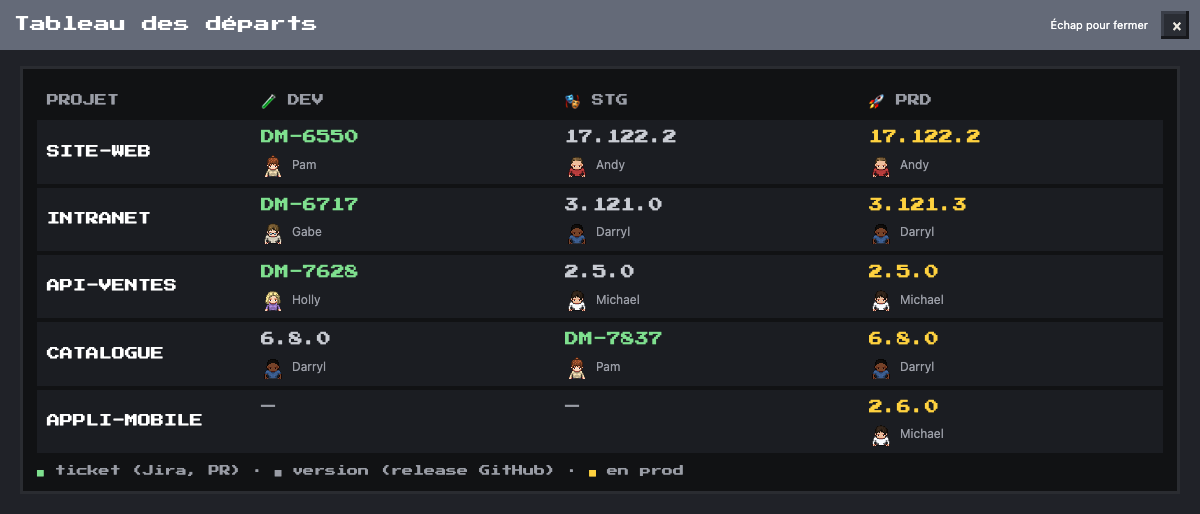
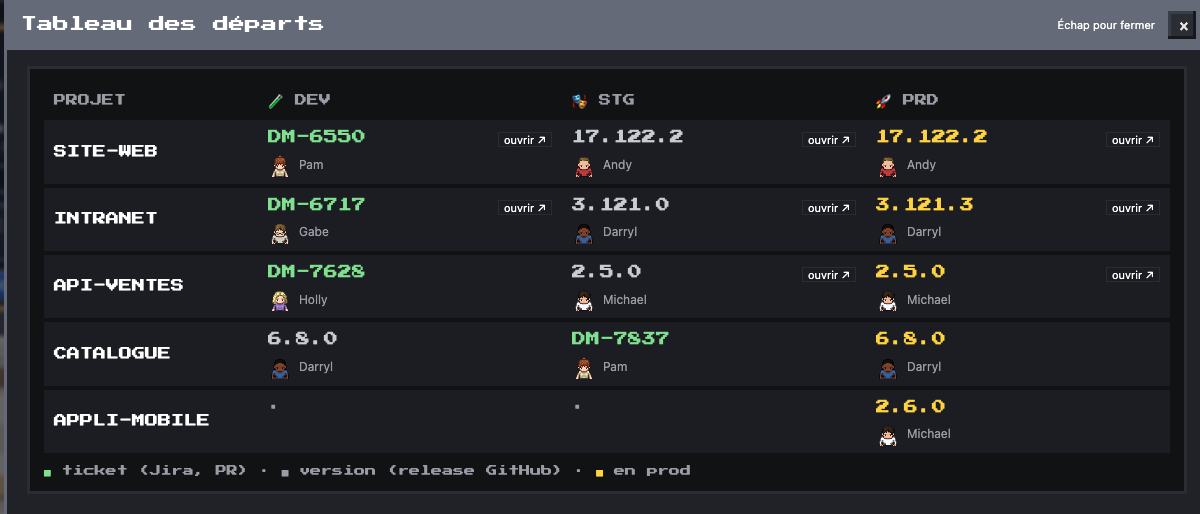
feat(envs): les adresses DEV, STG et PRD de chaque projet, au tableau des départs et sur le Kanban (#248)
## 🎯 Quoi et pourquoi
Ouvrir DEV, STG et PRD de chaque projet en un clic. Le Bureau savait
quelle branche tournait sur chaque env (cron live), mais pas l'adresse
des envs : GitHub ne la donne pas (`environment_url` vide partout). Les
adresses se donnent une fois dans la config locale. Maquette validée :
https://claude.ai/artifact/UBDsiW8jJZvZEq4NinzEFv (liens généraux au
tableau des départs, Kanban seulement quand c'est déployé).

## 🔧 Changements
- **Réglage** `urls` ({dev, stg, prd}, http(s) : des envs internes sont
en http) à côté du dépôt principal (`github.urls`) et de chaque dépôt
suivi (`github.deploys[].urls`), recopié par le cron live dans
`departs`. Réglage `envs` (par exemple `["stg", "prd"]`) pour un projet
qui n'a pas tous les envs : un vieux déploiement qui nomme encore l'env
ne le fait plus réapparaître.
- **Tableau des départs** : « ouvrir ↗ » dans chaque case dont l'env a
une adresse, même sans déploiement relu ; « pas de DEV » pour un env que
le projet n'a pas (et pas de ligne en mode TV).
- **Mur Kanban** : sous la carte, ce qui est déployé, toutes les PR du
ticket confondues. Une rangée par projet (son nom si l'équipe suit
plusieurs dépôts), 🧪 DEV ↗ / 🎭 STG ↗ en lien vers l'env, ⏳ pendant le
déploiement, 🌿 env ↗ (🌿 #n ↗ quand plusieurs PR du projet en ont un).
Rien de déployé : pas de rangée. Avant, seule la PR principale du ticket
montrait ses envs.
- **Fiche** (« Ses PR ouvertes », fiche d'une personne) : la marque « 🧪
[…]

diff --git a/page/src/62-departs.js b/page/src/62-departs.js
@@ -7,6 +7,14 @@ let DEPR=null, DEP_PIN=null, DEP_PAL=null, DEP_SKIN=null; // DEP_PIN : page du p
 const DEP_ROWS=3, DEP_PAGE_MS=5000, DEP_FLIP_MS=380;
 const depRows=()=>(LIVE&&Array.isArray(LIVE.departs)?LIVE.departs:[]).filter(r=>r&&r.repo);
 const depName=r=>String(r.label||String(r.repo).split('/').pop());
+// l'adresse d'un env (dev, stg, prd) d'un dépôt : réglage `urls` du dépôt, recopié par le cron live ; http(s) seulement
+// (des envs internes sont en http) ; null si inconnue
+const envHref=u=>typeof u==='string'&&/^https?:\/\//i.test(u)?u:null;
+const ENV_OF={staging:'stg'};
+function envUrl(repo,env){
+  const r=depRows().find(x=>String(x.repo).toLowerCase()===String(repo||'').toLowerCase());
+  return r&&r.urls?envHref(r.urls[ENV_OF[env]||env]):null;
+}
 const depKey=ref=>(String(ref||'').match(/[A-Z][A-Z0-9]+-\d+/)||[null])[0]; // en majuscules : pas « bluegreen-17 »
 // en prod à t (rejouable : une mise en prod d'après t n'est pas encore partie), la plus récente d'abord
 const depFlights=t=>depRows().filter(r=>r.prd&&r.prd.ref&&!(ms(r.prd.end)>t)).sort((a,b)=>(ms(b.prd.end)||0)-(ms(a.prd.end)||0));
@@ -34,16 +42,20 @@ const DEPARTS_BOARD={y:-1,draw:now=>{
   if(!L.length)txt('AUCUN DÉPART',P.when,x+4,y+22);
   for(let p=0;n>1&&p<n;p++)R(ctx,x+w/2-n*3+p*6,y+h-3,3,2,p===pg?P.band:P.row);
 }};
-// ---------- la fenêtre : un dépôt par ligne, DEV, STG et PRD ----------
+// ---------- la fenêtre : un dépôt par ligne, DEV, STG et PRD ; « ouvrir ↗ » mène à l'env quand son adresse est connue ----------
 const depA=(cls,url,t,tip='')=>`<a class="${cls}" ${hrefOf(url)} target="_blank" rel="noopener" title="${esc(tip)}">${esc(t)}</a>`;
 const depWho=o=>{const c=o.by?byChar(o.by):null;return {c,n:c?c.name:o.by||''};};
+// un env que le dépôt n'a pas (réglage envs) : « pas de DEV » dans la case, sans lien
+const depHas=(r,env)=>!Array.isArray(r.envs)||r.envs.includes(env);
 function depCell(r,env){
-  const o=r[env];if(!o||!o.ref)return '<td><span class="dep-none">·</span></td>';
+  if(!depHas(r,env))return '<td class="dep-off"><span class="dep-none">pas de '+env.toUpperCase()+'</span></td>';
+  const u=r.urls&&envHref(r.urls[env]), go=u?`<a class="dep-go" href="${esc(u)}" target="_blank" rel="noopener" title="${esc(u)}">ouvrir ↗</a>`:'';
+  const o=r[env];if(!o||!o.ref)return `<td><div class="dep-top"><span class="dep-none">·</span>${go}</div></td>`;
   const gh='https://github.com/'+r.repo, k=!o.tag&&depKey(o.ref), t=k&&ticketOf(k), w=depWho(o),
     pr=!o.tag&&TEAM&&[...TEAM.people.flatMap(p=>p.prs||[]),...(TEAM.other_prs||[])].find(x=>x.head===o.ref&&prRepo(x)===r.repo);
   const v=o.tag?depA(env==='prd'?'dep-prd':'',gh+'/releases/tag/'+encodeURIComponent(o.ref),o.ref)
     :k&&JIRA_BROWSE!=='/browse/'?depA('dep-br',JIRA_BROWSE+k,k,t?t.summary:o.ref):depA('dep-br',gh+'/tree/'+o.ref,o.ref);
-  return `<td><div class="dep-l">${v}${pr?depA('dep-pr',pr.url,'PR #'+pr.n,pr.title):''}</div><div class="dep-who">${w.c?`<span data-pt="${esc(w.c.key)}"></span>`:''}${esc(w.n)}</div></td>`;
+  return `<td><div class="dep-top"><div class="dep-l">${v}${pr?depA('dep-pr',pr.url,'PR #'+pr.n,pr.title):''}</div>${go}</div><div class="dep-who">${w.c?`<span data-pt="${esc(w.c.key)}"></span>`:''}${esc(w.n)}</div></td>`;
 }
 function departsFill(box){
   const L=depRows();
@@ -59,5 +71,5 @@ function tvDeparts(){
   const L=depRows(), line=(r,env)=>{const o=r[env]||{}, w=o.ref?depWho(o):{}, img=w.c?portraitUrl(w.c):'';
     return `<div class="tve-l"><i>${env.toUpperCase()}</i><em class="${!o.ref?'dep-none':env==='prd'?'dep-prd':o.tag?'':'dep-br'}">${esc(!o.ref?'·':o.tag?o.ref:depKey(o.ref)||o.ref)}</em>`+
       `<span>${img?`<img src="${img}" alt="">`:''}${esc(w.n||'')}</span></div>`;};
-  return L.length?'<h2>Les envs</h2>'+L.map(r=>`<div class="tve"><b>${esc(depName(r))}</b>${line(r,'dev')}${line(r,'stg')}${line(r,'prd')}</div>`).join(''):'';
+  return L.length?'<h2>Les envs</h2>'+L.map(r=>`<div class="tve"><b>${esc(depName(r))}</b>${['dev','stg','prd'].filter(e=>depHas(r,e)).map(e=>line(r,e)).join('')}</div>`).join(''):'';
 }

diff --git a/page/src/63-kanban.js b/page/src/63-kanban.js
@@ -102,19 +102,37 @@ function kanbanFill(box){
   const st=box.querySelector('.kbw-strip');if(st)st.onclick=kbClose;
 }
 // pastilles de la PR d'un ticket, sous sa carte : la PR prête plutôt qu'un brouillon, la plus récente ; n° et CI, brouillon
-// ou conflit, review, les envs où tourne sa branche (🧪 DEV, 🎭 STG, dataset live) et l'env de branche (« 🌿 env ↗ », ⏳ ou ❌ pendant son build)
+// ou conflit, review, l'env de branche en construction ou en échec (⏳ ou ❌) ; puis ce qui est déployé, toutes PR du
+// ticket confondues : une rangée par projet (son nom si l'équipe suit plusieurs dépôts), les envs où tourne une de ses
+// branches (🧪 DEV, 🎭 STG, dataset live ; un lien vers l'env si son adresse est connue, ⏳ pendant le déploiement) et
+// les envs de branche (« 🌿 env ↗ », « 🌿 #n ↗ » quand il y en a plusieurs) ; rien de déployé, pas de rangée
 const KB_REV={changes:['💬 à corriger','var(--warn)'],approved:['👍 approuvée','var(--ok)'],pending:['👀 à relire','var(--info)']};
 function kbPrChips(key){
-  const p=prsOf(key).sort((a,b)=>(!!a.draft-!!b.draft)||(b.n-a.n))[0];if(!p)return '';
+  const all=prsOf(key).sort((a,b)=>(!!a.draft-!!b.draft)||(b.n-a.n)), p=all[0];if(!p)return '';
   const c=(t,col,tt)=>`<i style="--k:${col}"${tt?` title="${esc(tt)}"`:''}>${t}</i>`, ci=PR_CI[p.ci];
   let h=c(esc('#'+p.n)+(ci?' '+ci[0]:''),ci?ci[1]:'var(--idle)',ci?ci[2]:'');
   if(p.draft)h+=c('✎ brouillon','var(--idle)');else if(KB_REV[p.review])h+=c(...KB_REV[p.review]);
   if(p.conflict)h+=c('⛔ conflit','var(--err)');
-  for(const e of prEnvs(p))h+=c(e.ico+' '+esc(e.env.toUpperCase())+(e.run?' ⏳':''),e.run?'var(--warn)':'var(--info)',(e.run?'Déploiement en cours sur ':'Sa branche est sur ')+e.env.toUpperCase());
-  const eb=p.head?ebState(p):{step:'none'}; // l'env de branche : en construction ou en échec, sinon son lien
+  const eb=p.head?ebState(p):{step:'none'}; // l'env de branche de la PR principale : en construction ou en échec
   if(eb.step==='asked'||eb.step==='run')h+=c('🌿 ⏳ env','var(--warn)','Env de branche en construction');
   else if(eb.step==='ko')h+=c('🌿 ❌ env','var(--err)','Build de l\'env de branche en échec');
-  else if(safeUrl(p.env_url))h+=`<a class="kbw-env" ${hrefOf(p.env_url)} target="_blank" rel="noopener" title="Env de branche : ${esc(p.env_url)}">🌿 env ↗</a>`;
+  const rows=new Map(), row=x=>{const r=String(prRepo(x));if(!rows.has(r))rows.set(r,{envs:[],br:[]});return rows.get(r);};
+  for(const x of all){
+    for(const e of prEnvs(x))row(x).envs.push({...e,n:x.n});
+    if(safeUrl(x.env_url)&&!(x===p&&eb.step!=='ok'&&eb.step!=='none'))row(x).br.push(x);
+  }
+  const multi=depRows().length>1;
+  for(const [repo,r] of rows){
+    if(!r.envs.length&&!r.br.length)continue;
+    r.envs.sort((a,b)=>a.env.localeCompare(b.env));
+    let g=multi?`<span class="kbw-pj">${esc(depName(depRows().find(x=>String(x.repo).toLowerCase()===repo.toLowerCase())||{repo}))}</span>`:'';
+    for(const e of r.envs){const t=e.ico+' '+esc(e.env.toUpperCase());
+      g+=e.run?c(t+' ⏳','var(--warn)','Déploiement en cours sur '+e.env.toUpperCase())
+        :e.url?`<a class="kbw-env kbw-go" href="${esc(e.url)}" target="_blank" rel="noopener" title="La PR #${esc(e.n)} y est : ${esc(e.url)}">${t} ↗</a>`
+        :c(t,'var(--info)','Sa branche est sur '+e.env.toUpperCase());}
+    for(const x of r.br)g+=`<a class="kbw-env" ${hrefOf(x.env_url)} target="_blank" rel="noopener" title="Env de branche de la PR #${esc(x.n)} : ${esc(x.env_url)}">🌿 ${r.br.length>1?'#'+esc(x.n):'env'} ↗</a>`;
+    h+=`<span class="kbw-envs">${g}</span>`;
+  }
   return `<span class="kbw-x">${h}</span>`;
 }
 // le volet : « ← » (fiche d'avant) ou rien, × ; puis la fiche du ticket ou de la PR (62-ticket.js), comme dans le panneau

diff --git a/tests/kanban-pr.test.js b/tests/kanban-pr.test.js
@@ -52,3 +52,42 @@ test('fiche du ticket : l\'adresse complète de l\'env de branche, sous sa PR ; 
   assert.match(m, /✗ CI/);
   assert.match(m, /🧪 DEV · depuis/);
 });
+
+// avec le tableau des départs (LIVE.departs) : adresses des envs et noms des projets
+function chipsHtml(prs, envs, departs) {
+  return J(`(() => { const t0 = TEAM, l0 = LIVE; TEAM = {people: [{name: 'Pam', prs: ${JSON.stringify(prs)}, tickets: []}], other_prs: []};
+    LIVE = {envs: ${JSON.stringify(envs)}, departs: ${JSON.stringify(departs)}};
+    try { return kbPrChips('DM-1'); } finally { TEAM = t0; LIVE = l0; } })()`);
+}
+const API = 'acme/api';
+const DEPS = [{repo: REPO, label: 'site', urls: {dev: 'https://dev.site.example', stg: 'https://stg.site.example'}},
+  {repo: API, label: 'api', urls: {stg: 'http://api.stg.example.internal/api/'}}];
+
+test('carte : une rangée par projet, seulement ce qui est déployé, un lien vers l\'env quand son adresse est connue', () => {
+  const h = chipsHtml([pr({n: 12}), pr({n: 7, repo: API, head: 'feat/DM-1-api'})],
+    {[REPO + '|dev']: run(), [API + '|stg']: run({ref: 'feat/DM-1-api'})}, DEPS);
+  const rows = [...h.matchAll(/<span class="kbw-envs">(.*?)<\/span>(?=<span class="kbw-envs">|<\/span>$)/g)].map(m => m[1].replace(/<[^>]+>/g, ' ').replace(/\s+/g, ' ').trim());
+  assert.deepEqual(rows, ['site 🧪 DEV ↗', 'api 🎭 STG ↗']);
+  assert.match(h, /href="https:\/\/dev\.site\.example"/);
+  assert.match(h, /href="http:\/\/api\.stg\.example\.internal\/api\/"/, 'un env interne en http');
+  assert.doesNotMatch(h, /stg\.site\.example/, 'STG du site : la branche n\'y est pas');
+});
+
+test('carte : rien de déployé, pas de rangée ; pendant le déploiement, ⏳ sans lien ; adresse inconnue, la pastille seule', () => {
+  assert.doesNotMatch(chipsHtml([pr()], {}, DEPS), /kbw-envs/);
+  const h = chipsHtml([pr()], {[REPO + '|dev']: run({status: 'in_progress', conclusion: null, end: null})}, DEPS);
+  assert.match(h, /🧪 DEV ⏳/);
+  assert.doesNotMatch(h, /href=/);
+  assert.doesNotMatch(chipsHtml([pr()], {[REPO + '|dev']: run()}, [{repo: REPO, urls: {dev: 'javascript:alert(1)'}}]), /href=/);
+});
+
+test('carte : deux envs de branche dans un projet, chacun avec le n° de sa PR', () => {
+  const h = chipsHtml([pr({n: 12, env_url: 'https://a.example'}), pr({n: 14, head: 'feat/DM-1-b', env_url: 'https://b.example'})], {}, DEPS);
+  assert.match(h, /🌿 #14 ↗.*🌿 #12 ↗/);
+});
+
+test('fiche : la marque de l\'env devient un lien vers lui', () => {
+  const m = J(`(() => { const l0 = LIVE; LIVE = {envs: {'${REPO}|dev': ${JSON.stringify(run())}}, departs: ${JSON.stringify(DEPS)}};
+    try { return prMarks(${JSON.stringify(pr())}).join(' '); } finally { LIVE = l0; } })()`);
+  assert.match(m, /<a class="prm" href="https:\/\/dev\.site\.example"[^>]*>🧪 DEV ↗ · depuis/);
+});

diff --git a/page/src/styles.css b/page/src/styles.css
@@ -239,6 +239,9 @@ button.back kbd{font:10px ui-monospace,Menlo,monospace;border:1px solid var(--li
 .kbw-x i{font-style:normal;font-size:10px;line-height:15px;padding:0 5px;background:color-mix(in srgb,var(--k) 20%,transparent);box-shadow:inset 2px 0 0 var(--k);color:var(--ink);white-space:nowrap}
 .kbw-env{font-size:10px;line-height:15px;padding:0 5px;background:color-mix(in srgb,var(--ok) 22%,transparent);box-shadow:inset 2px 0 0 var(--ok);color:var(--ink);text-decoration:none;white-space:nowrap}
 .kbw-env:hover{text-decoration:underline}
+.kbw-env.kbw-go{background:color-mix(in srgb,var(--info) 20%,transparent);box-shadow:inset 2px 0 0 var(--info)}
+.kbw-envs{flex-basis:100%;display:flex;flex-wrap:wrap;align-items:center;gap:3px} /* une rangée par projet : ce qui est déployé */
+.kbw-pj{font-size:10px;color:var(--muted);margin-right:2px}
 .kb-vol .kbw-x{display:none}
 .tk-env{display:flex;flex-wrap:wrap;align-items:baseline;gap:2px 6px;margin-top:4px;font-size:11px}.tk-env a{color:var(--accent);word-break:break-all}.tk-env small{color:var(--muted)}
 .kbw-c b{color:var(--accent);font-size:11px}.kbw-c em{font-style:normal;float:right;background:var(--chip);border-radius:999px;padding:0 6px;font-size:10px;color:var(--muted)}
@@ -869,6 +872,10 @@ body.tv.tvscene #tvscene{display:flex;flex-direction:column}
 .dep a{color:inherit;text-decoration:none}.dep a:hover{text-decoration:underline 2px;text-underline-offset:4px}
 .dep .dep-prd,.tve-l .dep-prd{color:var(--dep-prd)}.dep .dep-br{color:var(--dep-branch)}.dep-pr,.dep-who,.dep-key,.dep-none{color:var(--dep-when)}
 .dep-pr{font-size:10px;margin-left:6px}
+.dep td.dep-off{background:transparent;vertical-align:middle}
+.dep-top{display:flex;align-items:baseline;gap:6px}.dep-top .dep-l{flex:1;min-width:0}
+.dep a.dep-go{flex:none;font:11px system-ui,sans-serif;color:var(--dep-name);border:1px solid var(--dep-frame);border-radius:4px;padding:0 5px;white-space:nowrap}
+.dep a.dep-go:hover{border-color:var(--dep-branch);text-decoration:none}
 .dep-who{display:flex;align-items:center;gap:7px;margin-top:5px;font:12px system-ui,sans-serif;white-space:nowrap}
 .dep-who canvas{width:24px;height:24px;image-rendering:pixelated}.dep-key{margin:6px 0 0;font-size:11px}
 #tvwho .tve{background:var(--tv-card);border-radius:10px;padding:8px 12px;color:var(--tv-ink)}

diff --git a/tests/departs.test.js b/tests/departs.test.js
@@ -58,3 +58,22 @@ test('mode TV : « Les envs », trois lignes par dépôt, la clé du ticket plut
 test('clé de ticket : en majuscules seulement (« ci/tpl-bluegreen-17.5.0 » n\'en a pas)', () => {
   assert.deepEqual(J(`['feat/DM-7399-audio', 'ci/tpl-bluegreen-17.5.0', 'dev_DM-7712-2'].map(depKey)`), ['DM-7399', null, 'DM-7712']);
 });
+
+test('fenêtre : « ouvrir ↗ » dans chaque case dont l\'env a une adresse, même sans déploiement relu ; http(s) seulement', () => {
+  const html = J(`(() => { const l0 = LIVE; LIVE = {runs: [], departs: ${JSON.stringify([
+    {...DEPARTS[0], urls: {dev: 'https://dev.example', prd: 'https://www.example'}},
+    {...DEPARTS[1], urls: {dev: 'http://intra.dev.example.internal/', stg: 'javascript:alert(1)'}}])}};
+    const b = document.createElement('div'); try { departsFill(b); return b.innerHTML; } finally { LIVE = l0; } })()`);
+  const go = [...html.matchAll(/class="dep-go" href="([^"]+)"/g)].map(m => m[1]);
+  assert.deepEqual(go, ['https://dev.example', 'https://www.example', 'http://intra.dev.example.internal/']);
+});
+
+test('fenêtre et mode TV : un env que le projet n\'a pas (réglage envs) : « pas de DEV », sans lien ni ligne', () => {
+  const d = JSON.stringify([{...DEPARTS[0], envs: ['stg', 'prd'], urls: {dev: 'https://dev.example'}}]);
+  const html = J(`(() => { const l0 = LIVE; LIVE = {runs: [], departs: ${d}}; const b = document.createElement('div');
+    try { departsFill(b); return b.innerHTML; } finally { LIVE = l0; } })()`);
+  assert.match(html, /<td class="dep-off"><span class="dep-none">pas de DEV<\/span><\/td>/);
+  assert.doesNotMatch(html, /dev\.example|DM-7/);
+  const tv = J(`(() => { const l0 = LIVE; LIVE = {runs: [], departs: ${d}}; try { return tvDeparts(); } finally { LIVE = l0; } })()`);
+  assert.equal((tv.match(/class="tve-l"/g) || []).length, 2);
+});

diff --git a/page/src/62-deploy.js b/page/src/62-deploy.js
@@ -90,12 +90,13 @@ function deployBlock(box,p){
 // ---------- état d'une PR partagé par le Kanban, la fiche et les listes : CI et envs où tourne sa branche ----------
 const PR_CI={ok:['✓ CI','var(--ok)','CI verte'],ko:['✗ CI','var(--err)','CI en échec'],run:['⏳ CI','var(--warn)','CI en cours']};
 const DP_ICO={dev:'🧪',stg:'🎭',staging:'🎭'};
-// [{env, ico, run, since}] : les envs (dataset live) dont le dernier déploiement est la branche de la PR, réussi ou en cours
+// [{env, ico, run, since, url}] : les envs (dataset live) dont le dernier déploiement est la branche de la PR, réussi ou en
+// cours ; url : l'adresse de l'env (62-departs.js), une fois le déploiement fini
 function prEnvs(p){
   if(!p||!p.head||!LIVE||!LIVE.envs)return [];
   const r=String(prRepo(p)).toLowerCase()+'|';
   return Object.entries(LIVE.envs).filter(([k,o])=>k.toLowerCase().startsWith(r)&&o&&!o.tag&&o.ref===p.head&&(o.status!=='completed'||o.conclusion==='success'))
-    .map(([k,o])=>{const env=k.slice(r.length);return {env,ico:DP_ICO[env]||'🚀',run:o.status!=='completed',since:o.end||o.start};});
+    .map(([k,o])=>{const env=k.slice(r.length);const run=o.status!=='completed';return {env,ico:DP_ICO[env]||'🚀',run,since:o.end||o.start,url:run?null:envUrl(prRepo(p),env)};});
 }
 // l'adresse de l'env de branche d'une PR (relevée dans le commentaire du bot par le cron équipe), en entier, cliquable
 function prEnvLine(p){

diff --git a/page/src/60-fiches.js b/page/src/60-fiches.js
@@ -206,7 +206,9 @@ function prMarks(x){
   if(x.behind>0)m.push(`<span class="prm" title="Commits de ${esc(x.base||'main')} absents de la PR">⟳ ${x.behind} de retard</span>`);
   if(x.threads>0)m.push(`<span class="prm" title="Fils de review non résolus">💬 ${x.threads} fil${x.threads>1?'s':''}</span>`);
   const ci=PR_CI[x.ci];if(ci)m.push(`<span class="prm${x.ci==='ko'?' err':''}" title="${ci[2]}">${ci[0]}</span>`);
-  for(const e of prEnvs(x))m.push(`<span class="prm" title="${e.run?'Déploiement en cours':'Sa branche y est'}">${e.ico} ${esc(e.env.toUpperCase())}${e.run?' ⏳':' · depuis '+esc(dpAgo(e.since))}</span>`);
+  for(const e of prEnvs(x)){const t=`${e.ico} ${esc(e.env.toUpperCase())}${e.run?' ⏳':(e.url?' ↗':'')+' · depuis '+esc(dpAgo(e.since))}`;
+    m.push(e.url?`<a class="prm" href="${esc(e.url)}" target="_blank" rel="noopener" title="Sa branche y est : ouvrir ${esc(e.url)}">${t}</a>`
+      :`<span class="prm" title="${e.run?'Déploiement en cours':'Sa branche y est'}">${t}</span>`);}
   return m;
 }
 function prRowHtml(x){

diff --git a/workflows/live_snapshot.py b/workflows/live_snapshot.py
@@ -13,7 +13,9 @@ branch_envs : avec le réglage env.workflow (le workflow GitHub qui construit l'
 est posé), « dépôt|branche » -> {status, conclusion, start, end, url, by} du dernier build de cette branche ; les runs
 « skipped » ne comptent pas (le workflow démarre à chaque événement de la PR et ne construit qu'avec le label).
 departs : le tableau des départs, [{repo, label, dev?, stg?, prd?}] dans l'ordre des dépôts suivis, chaque env =
-{ref, tag, by, end, url} de son dernier déploiement réussi (DEV/STG : titre du workflow hors prod, PRD : workflow de prod).
+{ref, tag, by, end, url} de son dernier déploiement réussi (DEV/STG : titre du workflow hors prod, PRD : workflow de prod) ;
+urls : les adresses des envs du dépôt ({dev?, stg?, prd?}, réglage `urls` du dépôt dans github ou github.deploys), si connues ;
+envs : les envs du dépôt (réglage `envs`, par exemple ["stg", "prd"] sans DEV), si le réglage les restreint : les autres ne sont pas relus.
 warnings (#8) : déploiements non relus (gh absent, accès refusé…), republiés depuis la lecture précédente ; écrit aussi
 sur stderr (run Kronn). Un 304 (rien n'a changé) n'en est pas un.
 """
@@ -210,23 +212,44 @@ def deployed(run):
     return {"ref": ref, "tag": tag, "by": run.get("by"), "end": run.get("updatedAt"), "url": run.get("url")}
 
 
+def env_urls(conf):
+    """Les adresses DEV, STG et PRD d'un dépôt (réglage `urls`), en http(s) seulement."""
+    u = conf.get("urls") if isinstance(conf.get("urls"), dict) else {}
+    return {e: u[e] for e in ("dev", "stg", "prd") if isinstance(u.get(e), str) and re.match(r"https?://", u[e])}
+
+
+ALL_ENVS = ("dev", "stg", "prd")
+
+
+def env_list(conf):
+    """Les envs d'un dépôt (réglage `envs`), dans l'ordre DEV, STG, PRD ; les trois sans réglage."""
+    e = conf.get("envs")
+    return tuple(x for x in ALL_ENVS if x in e) if isinstance(e, list) else ALL_ENVS
+
+
 def departs():
     """[{repo, label, dev?, stg?, prd?}] dans l'ordre des dépôts suivis : le dernier déploiement réussi de chaque env
     (un essai annulé ou en échec ne change pas ce qui tourne). PRD : le workflow de prod, une version dans le titre."""
     g, out = CFG.get("github") or {}, []
-    rows = ([(g["repo"], "", g.get("staging_workflow"), g.get("prod_workflow"))] if g.get("repo") else []) + [
-        (d["repo"], d.get("label") or "", d.get("staging_workflow"), d.get("prod_workflow"))
+    rows = ([(g["repo"], "", g.get("staging_workflow"), g.get("prod_workflow"), env_urls(g), env_list(g))] if g.get("repo") else []) + [
+        (d["repo"], d.get("label") or "", d.get("staging_workflow"), d.get("prod_workflow"), env_urls(d), env_list(d))
         for d in g.get("deploys") or [] if d.get("repo") and d["repo"] != g.get("repo")]
-    for repo, label, st, pr in rows:
+    for repo, label, st, pr, urls, has in rows:
         row = {"repo": repo, "label": label or repo.split("/")[-1].replace("front_", "")}
+        if urls:
+            row["urls"] = urls
+        if has != ALL_ENVS:
+            row["envs"] = list(has)
         ok = lambda wf: sorted((r for r in D.get(repo + "|" + (wf or ""), {}).get("runs") or []
                                 if r.get("status") == "completed" and r.get("conclusion") == "success"),
                                key=lambda x: x.get("createdAt") or "", reverse=True)
         for env, words in DEPART_ENVS:
+            if env not in has:
+                continue
             r = next((x for x in ok(DEPLOY.get(repo) or st) if names_env(x, words)), None)
             if r:
                 row[env] = deployed(r)
-        r = next((x for x in ok(pr) if VER.search(x.get("displayTitle") or "")), None)
+        r = "prd" in has and next((x for x in ok(pr) if VER.search(x.get("displayTitle") or "")), None)
         if r:
             row["prd"] = dict(deployed(r), ref=VER.search(r["displayTitle"]).group(1), tag=True)
         out.append(row)

diff --git a/tools/shots.py b/tools/shots.py
@@ -73,16 +73,18 @@ DP_DEMO = ("ACTIONS.deploy=true;ACTION_BINDS['bureau-deploy']={pr_number:'id',re
 KB_PR_ENV = ("const _pe=TEAM.people.flatMap(p=>p.prs||[]),_p1=_pe.find(x=>x.n===2012),_p2=_pe.find(x=>x.n===1858),_r=prRepo(_p1),"
              "_tt=h=>new Date(T-h*36e5).toISOString();LIVE=LIVE||{runs:[],discussions:[],deploys:{}};"
              "LIVE.envs={[_r+'|dev']:{ref:_p1.head,tag:false,by:null,status:'completed',conclusion:'success',start:_tt(2.2),end:_tt(2),url:'#'},"
-             "[_r+'|stg']:{ref:_p2.head,tag:false,by:null,status:'in_progress',conclusion:null,start:_tt(.1),end:null,url:'#'}};")
+             "[_r+'|stg']:{ref:_p2.head,tag:false,by:null,status:'in_progress',conclusion:null,start:_tt(.1),end:null,url:'#'}};"
+             "LIVE.departs=[{repo:_r,label:'site-web',urls:{dev:'https://www.dev.dunder-mifflin.com/',stg:'https://www.stg.dunder-mifflin.com/'}}];")
 # tableau des départs (62-departs.js) : le panneau à la place de l'horloge de la cafétéria (le plan type n'en a pas :
-# objects.departs facultatif), l'horloge et l'employé du sprint décalés, et les envs de cinq dépôts fictifs (dataset live)
+# objects.departs facultatif), l'horloge et l'employé du sprint décalés, et les envs de cinq dépôts fictifs (dataset live),
+# avec les adresses de trois d'entre eux
 DEP_DEMO = ("applyLayout({...LAYOUT,clock:[9,11],plants:LAYOUT.plants.map(p=>p[0]===1&&p[1]===10?[1,9]:p),"
             "objects:{...LAYOUT.objects,emp:{...LAYOUT.objects.emp,x:314},departs:{x:38,y:334,w:150,h:50}}});"
             "const _dt=h=>new Date(T-h*36e5).toISOString(),_dv=(ref,tag,by,h)=>({ref,tag,by,end:_dt(h),url:'#'});"
             "LIVE={...(LIVE||{runs:[],discussions:[],deploys:{}}),departs:["
-            "{repo:'dunder-mifflin/site-web',label:'site-web',dev:_dv('feat/DM-6550-carrousel',false,'pambeesly',2),stg:_dv('17.122.2',true,'andybernard',20),prd:_dv('17.122.2',true,'andybernard',1.5)},"
-            "{repo:'dunder-mifflin/intranet',label:'intranet',dev:_dv('feat/DM-6717-annuaire',false,'gabelewis',5),stg:_dv('3.121.0',true,'darrylphilbin',30),prd:_dv('3.121.3',true,'darrylphilbin',26)},"
-            "{repo:'dunder-mifflin/api-ventes',label:'api-ventes',dev:_dv('refactor/DM-7628-cache',false,'hollyflax',1),stg:_dv('2.5.0',true,'michaelscott',150),prd:_dv('2.5.0',true,'michaelscott',148)},"
+            "{repo:'dunder-mifflin/site-web',label:'site-web',urls:{dev:'https://www.dev.dunder-mifflin.com/',stg:'https://www.stg.dunder-mifflin.com/',prd:'https://www.dunder-mifflin.com/'},dev:_dv('feat/DM-6550-carrousel',false,'pambeesly',2),stg:_dv('17.122.2',true,'andybernard',20),prd:_dv('17.122.2',true,'andybernard',1.5)},"
+            "{repo:'dunder-mifflin/intranet',label:'intranet',urls:{dev:'http://intranet.dev.dunder-mifflin.internal/',stg:'http://intranet.stg.dunder-mifflin.internal/',prd:'http://intranet.dunder-mifflin.internal/'},dev:_dv('feat/DM-6717-annuaire',false,'gabelewis',5),stg:_dv('3.121.0',true,'darrylphilbin',30),prd:_dv('3.121.3',true,'darrylphilbin',26)},"
+            "{repo:'dunder-mifflin/api-ventes',label:'api-ventes',urls:{stg:'https://api-ventes.stg.dunder-mifflin.com/',prd:'https://api-ventes.dunder-mifflin.com/'},dev:_dv('refactor/DM-7628-cache',false,'hollyflax',1),stg:_dv('2.5.0',true,'michaelscott',150),prd:_dv('2.5.0',true,'michaelscott',148)},"
             "{repo:'dunder-mifflin/catalogue',label:'catalogue',dev:_dv('6.8.0',true,'darrylphilbin',60),stg:_dv('fix/DM-7837-papier-recycle',false,'pambeesly',4),prd:_dv('6.8.0',true,'darrylphilbin',60)},"
             "{repo:'dunder-mifflin/appli-mobile',label:'appli-mobile',prd:_dv('2.6.0',true,'michaelscott',650)}]};")
 # le coin de la cafétéria où pend le panneau, agrandi

diff --git a/tests/test_scripts.py b/tests/test_scripts.py
@@ -1023,6 +1023,29 @@ print(json.dumps(val))
         self.assertEqual((site["dev"]["ref"], site["dev"]["tag"]), ("feat/DM-7", False))
         self.assertNotIn("prd", site)
 
+    def test_live_snapshot_departs_carry_the_env_urls_of_each_repo(self):
+        """departs : les adresses des envs (réglage urls du dépôt principal ou d'un dépôt suivi), http(s) seulement ;
+        rien sans réglage."""
+        self.fake_gh({"staging": [], "prod": []})
+        g = dict(FIXTURE["github"], urls={"dev": "https://dev.site", "stg": "javascript:x", "qat": "https://qat.site"},
+                 deploys=[dict(d, urls={"stg": "http://intra.stg.internal/api/"}) for d in FIXTURE["github"]["deploys"]])
+        site, intranet = self.run_script("live_snapshot.py", api=self.kronn(FakeKronn()), github=g)["departs"]
+        self.assertEqual(site["urls"], {"dev": "https://dev.site"})
+        self.assertEqual(intranet["urls"], {"stg": "http://intra.stg.internal/api/"})
+        site = self.run_script("live_snapshot.py", api=self.kronn(FakeKronn()))["departs"][0]
+        self.assertNotIn("urls", site)
+
+    def test_live_snapshot_departs_skip_the_envs_a_repo_does_not_have(self):
+        """departs : réglage envs d'un dépôt (sans DEV) : un vieux déploiement qui nomme DEV n'y apparaît pas ; envs publié
+        seulement s'il restreint."""
+        run = lambda title, mins: {"status": "completed", "conclusion": "success", "createdAt": iso(mins), "updatedAt": iso(mins - 1),
+                                   "displayTitle": title, "url": "https://x/" + str(mins), "by": "jimh", "branch": "main"}
+        self.fake_gh({"staging": [run("CD - FRONTIER deploy dev Version: 3.120.0", 5), run("CD - Deploy stg Version: 3.121.0", 9)], "prod": []})
+        site = self.run_script("live_snapshot.py", api=self.kronn(FakeKronn()), github=dict(FIXTURE["github"], envs=["stg", "prd"]))["departs"][0]
+        self.assertEqual((site["envs"], "dev" in site, site["stg"]["ref"]), (["stg", "prd"], False, "3.121.0"))
+        site = self.run_script("live_snapshot.py", api=self.kronn(FakeKronn()))["departs"][0]
+        self.assertEqual(("envs" in site, site["dev"]["ref"]), (False, "3.120.0"))
+
     def test_live_snapshot_branch_envs_follow_the_env_build_of_each_branch(self):
         """branch_envs (env.workflow) : par « dépôt|branche », le dernier build de l'env de branche, hors runs « skipped »
         (un par événement de PR) ; rien sans le réglage ni le bouton ; 30 runs lus."""

diff --git a/guide/fonctionnalites/08-murs.md b/guide/fonctionnalites/08-murs.md
@@ -25,7 +25,7 @@ Un ticket qui **traîne** dans sa colonne se couvre d'une **toile d'araignée** 
 
 ![Trois tickets qui traînent : 6 j et 12 j à déployer, 181 j en cours avec son araignée](../img/kanban-traine.png)
 
-Sous chaque carte qui a une **PR ouverte** (la prête plutôt qu'un brouillon, puis la plus récente), une rangée de pastilles : son numéro et l'état de sa **CI** (✓ verte, ✗ en échec, ⏳ en cours), **✎ brouillon** ou l'état de sa review (👀 à relire, 💬 à corriger, 👍 approuvée), **⛔ conflit**, puis les envs où tourne sa branche (**🧪 DEV**, **🎭 STG**, ⏳ pendant le déploiement : celui du bouton « 🚀 Déployer la branche ») et **🌿 env ↗**, le lien direct vers son env de branche quand il est prêt. Dans le volet du ticket, sa PR montre les mêmes infos et l'adresse complète de l'env de branche, avec l'heure où il a été prêt.
+Sous chaque carte qui a une **PR ouverte** (la prête plutôt qu'un brouillon, puis la plus récente), une rangée de pastilles : son numéro et l'état de sa **CI** (✓ verte, ✗ en échec, ⏳ en cours), **✎ brouillon** ou l'état de sa review (👀 à relire, 💬 à corriger, 👍 approuvée), **⛔ conflit**. Dessous, ce qui est **déployé**, toutes les PR du ticket confondues : une rangée par projet (son nom quand l'équipe suit plusieurs dépôts), avec les envs où tourne une de ses branches (**🧪 DEV ↗**, **🎭 STG ↗**, un lien vers l'env quand son adresse est connue, voir le [tableau des départs](21-departs.md) ; ⏳ pendant le déploiement : celui du bouton « 🚀 Déployer la branche ») et **🌿 env ↗**, le lien direct vers l'env de branche quand il est prêt (« 🌿 #n ↗ » quand plusieurs PR du projet en ont un). Rien de déployé : pas de rangée. Dans le volet du ticket, chaque PR montre les mêmes infos (la marque de l'env devient un lien vers lui) et l'adresse complète de l'env de branche, avec l'heure où il a été prêt.
 
 ![Les pastilles de PR sous les cartes : CI, review, DEV, STG et env de branche](../img/kanban-pr-env.png)
 

diff --git a/guide/fonctionnalites/21-departs.md b/guide/fonctionnalites/21-departs.md
@@ -22,6 +22,14 @@ Une ligne par dépôt suivi (`github.repo` puis `github.deploys`, dans cet ordre
 - **en gris**, une version (ou une image de test), liée à sa release sur GitHub ;
 - **en jaune**, la version en prod ;
 - sous chaque valeur, qui l'a déployée (son avatar s'il est dans l'équipe) ; un tiret quand l'env n'existe pas pour ce dépôt.
+- **« ouvrir ↗ »** dans la case, quand l'adresse de l'env est connue : un clic ouvre l'env lui-même, même si on ne sait pas ce qui y tourne.
+
+Les adresses se donnent une fois, dans la config locale (`bureau.config.json`) : une clé `urls` à côté du dépôt principal (`github.urls`) ou d'un dépôt suivi (`github.deploys[].urls`), avec `dev`, `stg` et `prd`, en `https://` ou `http://` (envs internes). Un env sans adresse garde sa case sans lien. Un projet qui n'a pas tous les envs le dit avec la clé `envs` (par exemple `["stg", "prd"]` sans DEV) : la case de l'env absent dit « pas de DEV », même si un vieux déploiement le nomme encore, et le mode TV n'en a pas la ligne. Ces adresses servent aussi au Mur Kanban : sur la carte d'un ticket, la pastille 🧪 DEV ou 🎭 STG d'une branche déployée mène à l'env, et dans la fiche, la marque de l'env de sa PR aussi.
+
+```json
+"github": {"repo": "acme/site", "urls": {"dev": "https://www.dev.acme.com/", "stg": "https://www.stg.acme.com/"},
+           "deploys": [{"repo": "acme/api", "urls": {"stg": "http://api.stg.acme.internal/"}, "…": "…"}]}
+```
 
 Ce qui tourne sur un env, c'est son **dernier déploiement réussi** : un essai annulé ou en échec ne change rien. La fenêtre suit les données (relues chaque minute).
 
